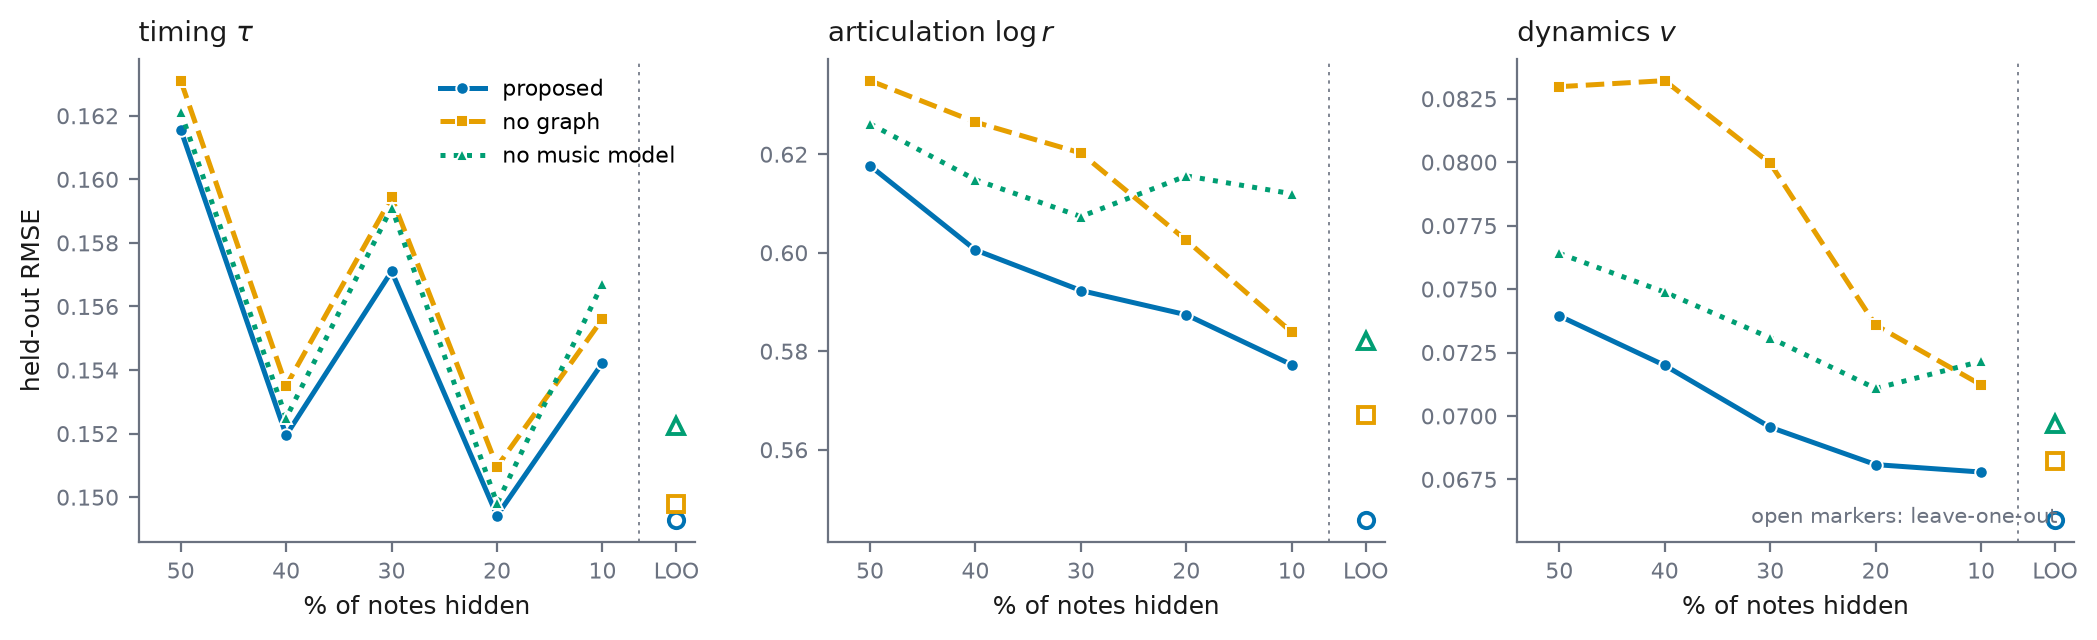
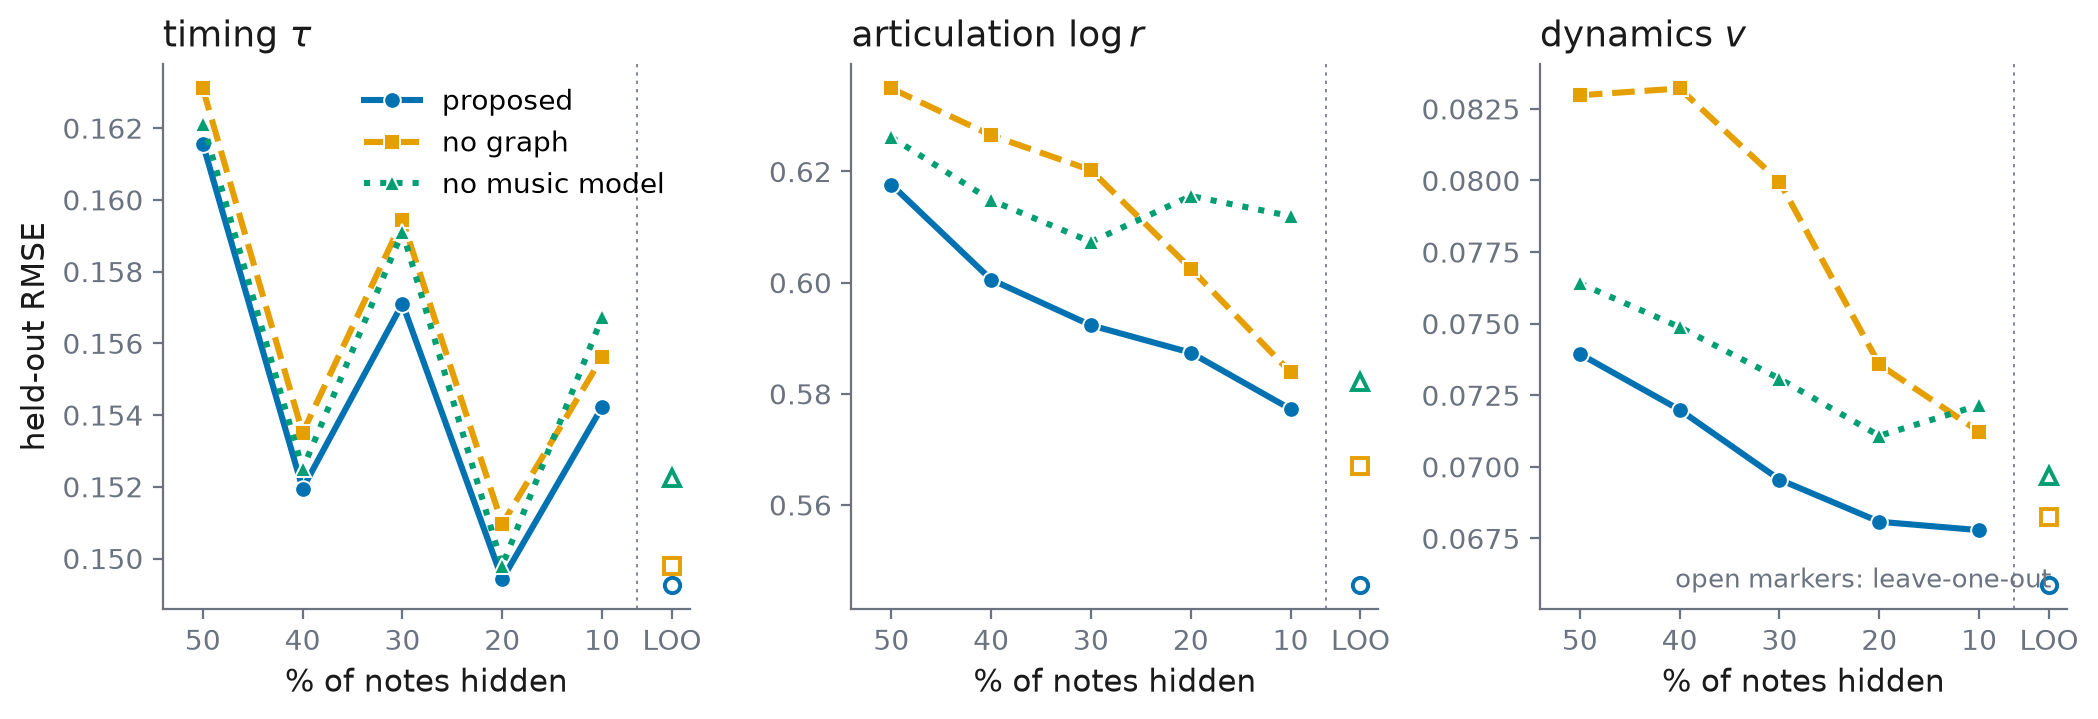
Slides: images at least doubled on every figure slide
Width-based figure macro; slide text trimmed to make room: concept figure
full width on the background slide (bullets folded into one sentence);
programme diagram at 0.9 textwidth with the redundant phase table dropped
(the diagram carries phases + statuses); score graph at 0.84 textwidth
with the equation compacted; the architecture gets its own full-width
slide (Method 5) instead of a 1.8cm stamp under the math; overview rate
figure full width and regenerated with ~25% larger fonts and markers;
posterior example at max height. 28pp, tectonic clean, all figure slides
re-rendered and inspected.

Claude-Session: https://claude.ai/code/session_01TXsRQ8BLcWaBZSFFBbasuX

diff --git a/docs/slides/deck.tex b/docs/slides/deck.tex
@@ -49,6 +49,14 @@
     {\figslotbox{#1}{#2}{#3}}%
   \else\figslotbox{#1}{#2}{#3}\fi
   \end{center}}
+% \figslotw{file}{width-fraction}{note} — width-based variant
+\newcommand{\figslotw}[3]{%
+  \begin{center}
+  \if1\showfigures\IfFileExists{../thesis/figures/#1}%
+    {\includegraphics[width=#2\textwidth]{#1}}%
+    {\figslotbox{#1}{3cm}{#3}}%
+  \else\figslotbox{#1}{3cm}{#3}\fi
+  \end{center}}
 \newcommand{\figslotbox}[3]{%
   \begin{tikzpicture}
     \node[draw=muted, dashed, thick, minimum height=#2, text width=0.72\textwidth,
@@ -76,17 +84,12 @@
 % ================================================================ 2  BACKGROUND
 \begin{frame}{Expressive performance}
   The score specifies pitches and note values. Performers add everything else:
-  \begin{itemize}
-    \item timing: notes pushed and pulled around the beat;
-    \item articulation: held longer or shorter than written;
-    \item dynamics: shaped louder and softer across phrases.
-  \end{itemize}
-  \vspace{1mm}
-  These deviations are the expression. Modelling them matters for performance
-  analysis, pedagogy, and expressive rendering.
-  \figslot{deck_concept.png}{2.9cm}{one bar as a piano-roll, with the played
+  the timing, articulation, and dynamics of every note. These deviations are
+  the expression.
+  \vspace{-1mm}
+  \figslotw{deck_concept.png}{0.92}{one bar as a piano-roll, with the played
     timing / duration / loudness deviating from the written values}
-  \vspace{-2mm}
+  \vspace{-3mm}
   {\centering\scriptsize\color{muted} real excerpt; timing offsets drawn
   $2\times$ for visibility\par}
 \end{frame}
@@ -118,24 +121,9 @@
 \begin{frame}{Approach: one prior, three kinds of observation}
   One \textbf{Gaussian process (GP)} prior over per-note expressive fields, on
   a graph built from the score. Only the observation changes: per-note MIDI
-  values (Phase 1), noisy targets derived from the $f_0$ curve (Phase 2), or
-  the waveform itself (Phase 3). The Phase-0 music model supplies input
-  features to all of them.
-  \begin{center}
-  {\footnotesize
-  \begin{tabular}{@{}llll@{}}
-  \toprule
-  Phase & Observation & Channels & Status \\
-  \midrule
-  0 \; music model & MIDI corpora (MAESTRO) & --- & Done \\
-  1 \; piano & performance MIDI, per note & $\tau, \log r, v$ & \textbf{Done} \\
-  2 \; mono.\ pitched & $f_0$-derived targets, noisy & $+\,c$, vibrato & WIP \\
-  3 \; waveform & the audio itself & all latent & To Do \\
-  \bottomrule
-  \end{tabular}}
-  \end{center}
-  \vspace{-1mm}
-  \figslot{deck_programme.png}{2.2cm}{the shared prior with three swappable
+  values (Phase 1), noisy $f_0$-derived targets (Phase 2), or the waveform
+  itself (Phase 3). A Phase-0 music model supplies input features to all.
+  \figslotw{deck_programme.png}{0.9}{the shared prior with three swappable
     likelihood blocks (MIDI / $f_0$ / waveform)}
 \end{frame}
 
@@ -172,21 +160,17 @@
 
 % ================================================================ 6  METHOD 1
 \begin{frame}{Method (1): the score graph}
-  Nodes are the written notes $(p_i, b_i, d_i)$: pitch, beat onset, duration.
-  Edges connect notes that are close in score time and pitch:
+  Nodes are the written notes $(p_i, b_i, d_i)$; edges connect notes close in
+  score time and pitch (neighbours should be played similarly):
+  \vspace{-1mm}
   \begin{equation*}
     W_{ij} \;=\; \exp\!\Bigl( -\tfrac{(b_i - b_j)^2}{2\,\ell_b^2}
                              \;-\; \tfrac{(p_i - p_j)^2}{2\,\ell_p^2} \Bigr),
     \qquad
-    \Lg \;=\; D - W, \quad D = \diag\Bigl(\textstyle\sum_j W_{ij}\Bigr).
+    \Lg \;=\; D - W .
   \end{equation*}
-  \begin{itemize}
-    \item $\ell_b$ (beats) and $\ell_p$ (semitones) are length scales; optional
-          same-voice, same-chord, and voice-leading edges.
-    \item Intuition: neighbouring notes should be played similarly. The
-          Laplacian $\Lg$ turns that into a prior.
-  \end{itemize}
-  \figslot{deck_scoregraph.png}{2.8cm}{NEW: a few bars of real score as nodes,
+  \vspace{-4mm}
+  \figslotw{deck_scoregraph.png}{0.84}{a few bars of real score as nodes,
     edges drawn by time / pitch / chord relation}
 \end{frame}
 
@@ -285,9 +269,16 @@
     \item The baselines are special cases: diagonal $B$, zero $c_f$, or a
           fixed cross-piece mean recover each simpler system exactly.
   \end{itemize}
-  \vspace{-2mm}
-  \figslot{arch_phase1_deck.png}{1.8cm}{architecture: graph branch (blue),
+\end{frame}
+
+% ================================================================ 10b  ARCHITECTURE
+\begin{frame}{Method (5): the model as a computation graph}
+  \figslotw{arch_phase1_deck.png}{0.98}{architecture: graph branch (blue),
     feature branch (amber), likelihood (vermillion)}
+  \vspace{-1mm}
+  \centering\small Blue: score graph $\to \Lg \to K_G$. Amber: features and
+  embeddings as linear kernels. They fuse into the joint kernel; the
+  likelihood (vermillion) is the only block that changes in later phases.
 \end{frame}
 
 % ================================================================ 11  SETUP
@@ -335,14 +326,13 @@
 
 % ================================================================ 13  RESULTS: OVERVIEW
 \begin{frame}{Results overview: every system, every masking level}
-  \figslot{masksweep_perchannel_dev.png}{3.6cm}{per channel: RMSE vs hidden
-    fraction, 50\% to 10\% plus leave-one-out, three systems (exists)}
+  \figslotw{masksweep_perchannel_dev.png}{0.99}{per channel: RMSE vs hidden
+    fraction, 50\% to 10\% plus leave-one-out, three systems}
   \begin{itemize}
-    \item All results are on the 30 validation pieces, at six masking levels.
-    \item Articulation and dynamics: the proposed model is best at every
-          level, and the gaps grow as more context is observed.
-    \item Timing: all systems are within noise of each other at every level.
-    \item Exact numbers per channel on the next three slides.
+    \item 30 validation pieces, six masking levels; exact numbers on the
+          next three slides.
+    \item Articulation and dynamics: best at every level, gaps growing with
+          observed context. Timing: all systems within noise.
   \end{itemize}
 \end{frame}
 
@@ -454,10 +444,10 @@
 
 % ================================================================ 15  RESULTS: EXAMPLE
 \begin{frame}{Results: posterior on one piece (validation set)}
-  \figslot{posterior_example_dev.png}{5.6cm}{one piece, 40\% hidden:
-    posterior mean, 90\% band, observed notes, hidden truths as open circles
-    (exists)}
   \vspace{-1mm}
+  \figslot{posterior_example_dev.png}{6.1cm}{one piece, 40\% hidden:
+    posterior mean, 90\% band, observed notes, hidden truths as open circles}
+  \vspace{-3mm}
   \centering\small Hidden true values fall inside the 90\% band at 49/50,
   49/50, 46/50 here.
 \end{frame}

diff --git a/scripts/make_masksweep_perchannel.py b/scripts/make_masksweep_perchannel.py
@@ -50,14 +50,14 @@ def loo_perch(c):
 
 
 def main() -> None:
-    fig, axes = plt.subplots(1, 3, figsize=(10.6, 3.3), dpi=200)
+    fig, axes = plt.subplots(1, 3, figsize=(10.6, 3.7), dpi=200)
     xs = [50, 40, 30, 20, 10]
     x_loo = 3.0
     for c, ax in enumerate(axes):
         loo = loo_perch(c)
         for cfg, label, col, mark, ls in SYSTEMS:
             ys = [perch_rmse(load_cells(tag, cfg), c) for tag, _ in TAGS]
-            ax.plot(xs, ys, ls, color=col, lw=1.8, marker=mark, ms=4.5,
+            ax.plot(xs, ys, ls, color=col, lw=2.2, marker=mark, ms=6.0,
                     markerfacecolor=col, markeredgecolor="white",
                     markeredgewidth=0.7, label=label)
             ax.plot([x_loo], [loo[cfg]], marker=mark, ms=5.5, color=col,
@@ -66,18 +66,18 @@ def main() -> None:
         ax.axvline(6.5, color=MUTED, lw=0.6, ls=(0, (2, 3)))
         ax.set_xlim(54, 1.2)
         ax.set_xticks(xs + [x_loo])
-        ax.set_xticklabels(["50", "40", "30", "20", "10", "LOO"], fontsize=8)
-        ax.set_title(CH[c], fontsize=10, color=INK, loc="left")
-        ax.set_xlabel("% of notes hidden", fontsize=9, color=INK)
+        ax.set_xticklabels(["50", "40", "30", "20", "10", "LOO"], fontsize=10)
+        ax.set_title(CH[c], fontsize=13, color=INK, loc="left")
+        ax.set_xlabel("% of notes hidden", fontsize=11, color=INK)
         for side in ("top", "right"):
             ax.spines[side].set_visible(False)
         for side in ("left", "bottom"):
             ax.spines[side].set_color(MUTED)
-        ax.tick_params(colors=MUTED, labelsize=8)
-    axes[0].set_ylabel("held-out RMSE", fontsize=9, color=INK)
-    axes[0].legend(frameon=False, fontsize=8, loc="upper right")
+        ax.tick_params(colors=MUTED, labelsize=10)
+    axes[0].set_ylabel("held-out RMSE", fontsize=11, color=INK)
+    axes[0].legend(frameon=False, fontsize=10, loc="upper right")
     axes[2].annotate("open markers: leave-one-out", xy=(0.97, 0.04),
-                     xycoords="axes fraction", fontsize=7.5, color=MUTED,
+                     xycoords="axes fraction", fontsize=9.5, color=MUTED,
                      ha="right")
     fig.tight_layout()
     fig.savefig(OUT, bbox_inches="tight")